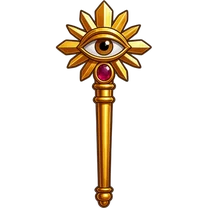
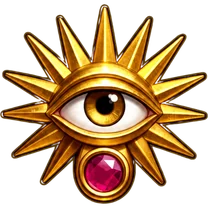
Replace GM emblem with the eye-sun without a handle

diff --git a/src/shared/verze.ts b/src/shared/verze.ts
@@ -7,4 +7,4 @@
  * ze které pokus vyšel, za ní vlastní verzování pokusu. Pravidla jsou
  * v `scripts/verze.ts` a v `docs/nasazeni-jouki-cz.md` §2.1.
  */
-export const VERZE = "1.13.10-42.1";
+export const VERZE = "1.13.10-42.2";

diff --git a/docs/grafika.md b/docs/grafika.md
@@ -366,7 +366,7 @@ python nastroje/grafika/export.py vyber/ram-mapy.png -o web/src/assets/diplomaci
 | `role-sasek.webp` | `role-sasek` var. 00 | 3043748249855321627 | 1024×1024 | 208×208 |
 | `role-zoldak.webp` | `role-zoldak` var. 01 | 3616151696795561981 | 1024×1024 | 208×208 |
 | `role-kat.webp` | role Popravčí (dřív Kat, soubor podle id `kat`): `role-popravci` var. 03 (4. 10. 2026: červená kápě popravčího; vybral uživatel), pozadí přes Scenario | 8097900961104008609 | 1024×1024 | 208×208 |
-| `role-gm.webp` | `role-gm` var. 01 | 2580788674960196035 | 1024×1024 | 208×208 |
+| `role-gm.webp` | `role-gm` var. 02 bez rukojeti (4. 10. 2026: rukojeť odstranil GPT Image přes Codex, `codex exec -i`; zdroj `../_grafika/navrhy/diplomacie/role-gm_02-bez-rukojeti.png`), pozadí přes Scenario | — | 1254×1254 | 208×208 |
 | `plameny.webm` | 2D simulace hoření (rychlost, teplota, palivo, kouř; blackbody barvy, jiskry s motion blur) v JS, Codex 4. 10. 2026 (4. verze na míru karty s mapou: rozhoření a dohoření uvnitř záběru; první malovaná verze zamítnuta) — `node nastroje/grafika/plameny.mjs`, výstupy píše vedle skriptu; čelo ohně musí držet `baseline(t)` (web podle něj posouvá masku karty, `celoOhne`). Codex kódoval téměř bezeztrátově (22 MB), na web překódováno `ffmpeg … -c:v libvpx-vp9 -pix_fmt yuva420p -b:v 0 -crf 30 -auto-alt-ref 0 -metadata:s:v:0 alpha_mode=1` | v generátoru | 1440×1440, 30 fps, 2,4 s | VP9 s alfou, 2,4 MB |
 | `ikonka-<role>.webp`, `ikonka-relikvie.webp` | zmenšené znaky rolí a relikvie (4. 10. 2026), `python nastroje/grafika/export.py web/src/assets/diplomacie/role-kat.webp -o …/ikonka-kat.webp -q 90 --sirka 56 --ctverec` | — | 208×208 / 90×95 | 56×56, CSS 28×28 (ikonky v textech, `TextSIkonami`) |
 | `prohra.webp` | `prohra` var. 03 (3. 10. 2026, obrazovka prohry) | 680650941923940174 | 1024×1024 | 208×208 |
